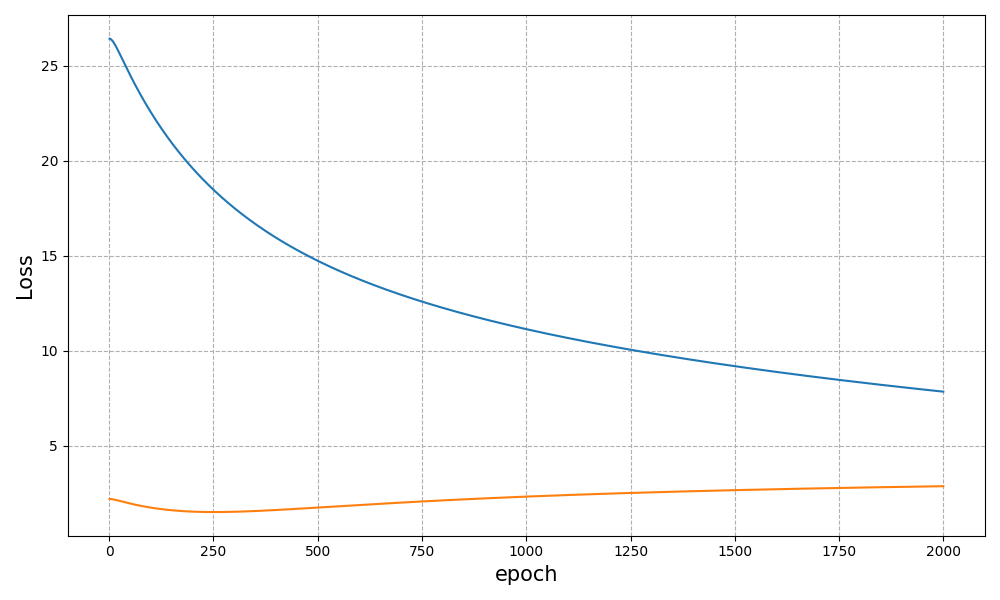
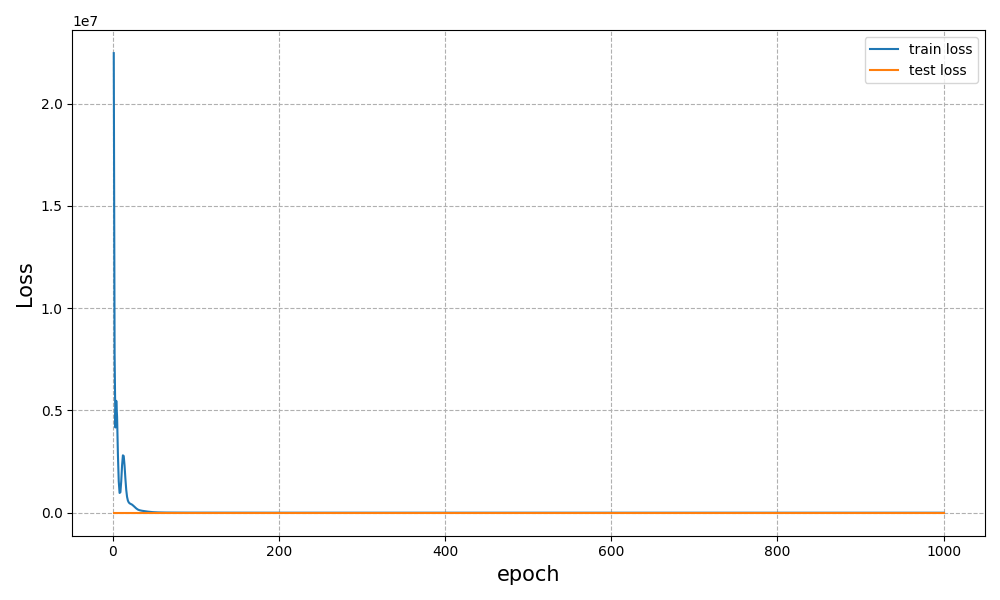
出两张图

diff --git a/dashuju-hw2/task2_plot.py b/dashuju-hw2/task2_plot.py
@@ -40,7 +40,7 @@ class MyLoss(nn.Module):
         super().__init__()
     
     def forward(self, X_pred, X_gt, U, V, A, lam, length):
-        match_loss = (1/length) * 0.5 * torch.sum(torch.pow((torch.mul(A, (X_gt-X_pred))), 2)) 
+        match_loss =  (1/length) * 0.5 * torch.sum(torch.pow((torch.mul(A, (X_gt-X_pred))), 2)) 
         norm_loss =  lam *(torch.sum(torch.pow(U, 2)) + torch.sum(torch.pow(V, 2)))
         return match_loss + norm_loss
 
@@ -55,8 +55,8 @@ def main():
     # ==================================================
     # 参数初始化设置
     user_dim = 10000; film_dim = 10000
-    lr = 0.05       
-    num_epochs = 2000
+    lr = 0.1
+    num_epochs = 500
     k = 20          # U，V矩阵降到m(n)xk维
     lam = 0.0001      # 正则项系数lambda
 
@@ -102,13 +102,20 @@ def main():
     # 目标函数值、测试误差可视化 
     plt.figure(figsize=(10, 6))
     plt.plot(range(1,num_epochs+1), train_loss, label='train loss')
-    plt.plot(range(1, num_epochs+1), test_loss, label='test loss')
     plt.xlabel('epoch', fontsize=15)
     plt.ylabel('Loss', fontsize=15)
     plt.grid(linestyle='--')
     plt.tight_layout()
-    plt.savefig('/data1/zjw/homework/dashuju-hw2/loss.png')
-    plt.show()
+    plt.savefig('/data1/zjw/homework/dashuju-hw2/train-loss.png')
+
+    plt.figure(figsize=(10, 6))
+    plt.plot(range(1, num_epochs+1), test_loss, label='test loss')
+    plt.xlabel('epoch', fontsize=15)
+    plt.ylabel('RMSE', fontsize=15)
+    plt.grid(linestyle='--')
+    plt.tight_layout()
+    plt.savefig('/data1/zjw/homework/dashuju-hw2/test-loss.png')
+
 
 if __name__ == '__main__':
     main()
